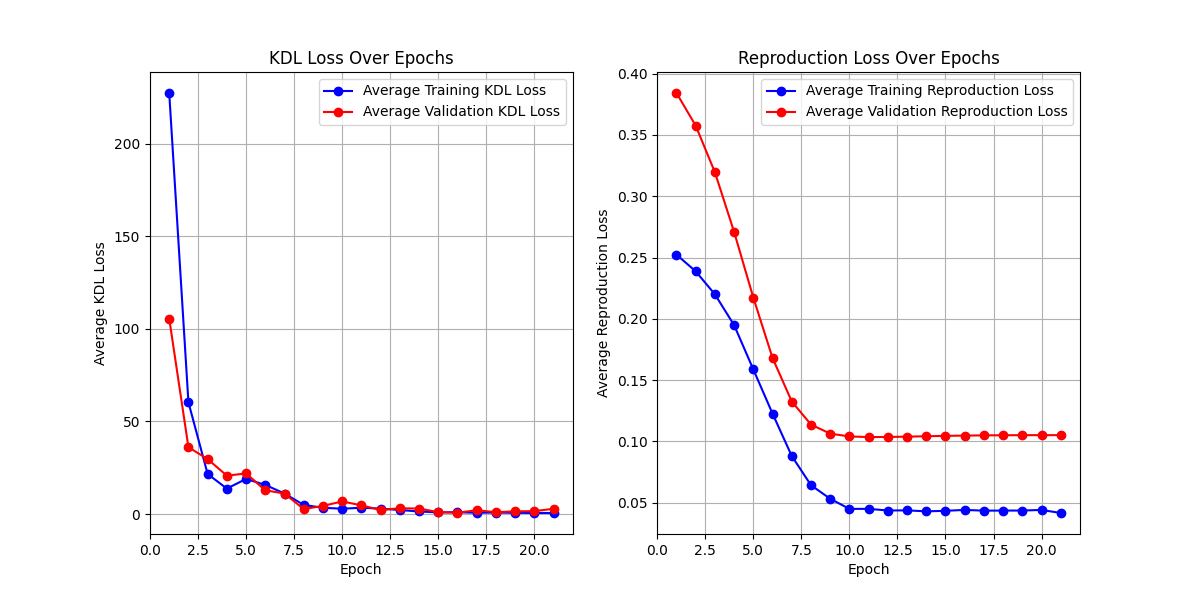
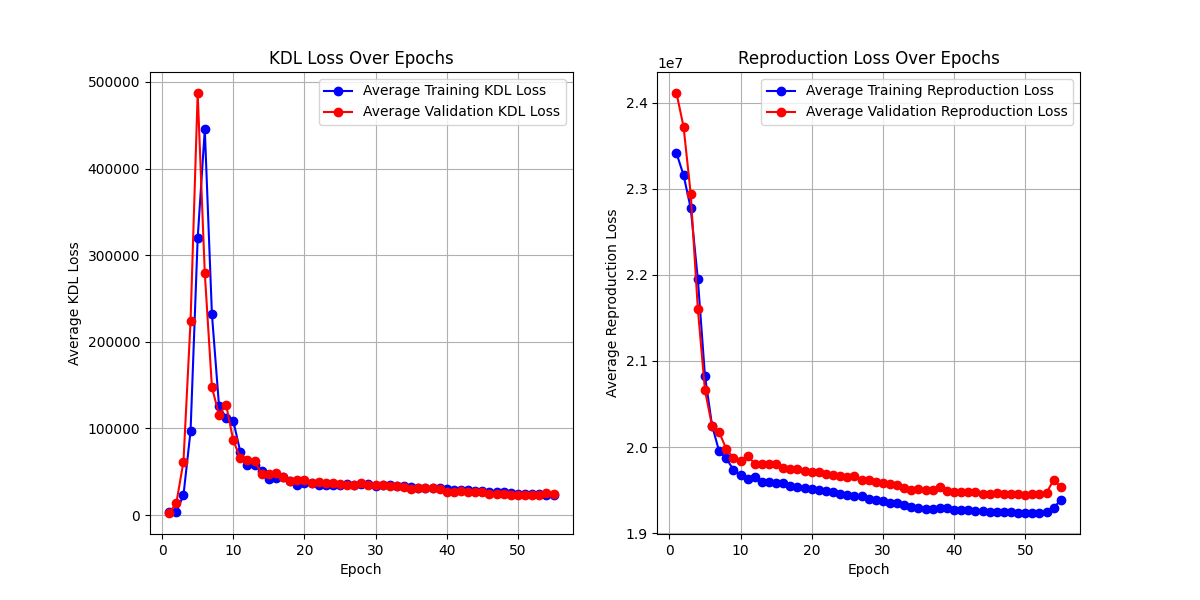
experimented with different scaling approaches

diff --git a/VAE/vae_experiments/train.py b/VAE/vae_experiments/train.py
@@ -22,14 +22,19 @@ def custom_collate(batch):
     return torch.cat(batch, dim=0)
 
 def loss_function(x, x_hat, mean, log_var):
-    reproduction_loss = reproduction_loss = F.l1_loss(x_hat, x)  # MAE
+    # reproduction_loss = reproduction_loss = F.l1_loss(x_hat, x, reduction='sum')  # MAE
+    # reproduction_loss = reproduction_loss = F.mse_loss(x_hat, x)  # MSE
+    reproduction_loss = nn.functional.binary_cross_entropy(x_hat, x, reduction='sum')
     KLD = - 0.5 * torch.sum(1+ log_var - mean.pow(2) - log_var.exp())
     return reproduction_loss, KLD
 
 def no_reduction_loss_function(x, x_hat, mean, log_var):
     # Calculate Mean Absolute Error (MAE) for each item in the batch
     # Using reduction='none' to keep the loss for each element in the batch
-    reproduction_loss = F.l1_loss(x_hat, x, reduction='none').mean(dim=1)
+    # reproduction_loss = F.l1_loss(x_hat, x, reduction='none').sum(dim=1)
+    # reproduction_loss = F.mse_loss(x_hat, x, reduction='none').sum(dim=1)
+    reproduction_loss = nn.functional.binary_cross_entropy(x_hat, x, reduction='none').sum(dim=1)
+
 
     # Calculate KLD for each item in the batch
     # Sum over the right dimension but do not reduce across the batch
@@ -55,7 +60,7 @@ def train_epoch(model, optimizer, device, train_loader, epoch, epochs):
         reproduction_loss, kdl_loss = loss_function(x, x_hat, mean, log_var)
         
         overall_kdl_loss += kdl_loss.item()
-        overall_reproduction_loss += reproduction_loss.item()
+        overall_reproduction_loss += reproduction_loss.item() 
 
         combined_loss = reproduction_loss + kdl_loss
         
@@ -115,7 +120,9 @@ def train(model, optimizer, epochs, device, train_loader, val_loader, early_stop
         plot_losses(training_losses, validation_losses, experiment_name, docs_dir)
 
         # early stopping
-        if early_stopper.early_stop(val_losses["average_val_kdl_loss"], model):
+        # stop_decision = early_stopper.early_stop(val_losses["average_val_kdl_loss"], model)
+        stop_decision = early_stopper.early_stop(val_losses["average_val_reproduction_loss"] + val_losses["average_val_kdl_loss"], model)
+        if stop_decision:
             model = early_stopper.min_model
             print("early stop")
             break
@@ -130,6 +137,7 @@ def plot_good_and_bad_samples(val_loader, model, device, num_samples_to_visualiz
             x = batch.to(device)
             x_hat, mean, log_var = model(x)
             reconstruction_loss, kdl_loss = no_reduction_loss_function(x, x_hat, mean, log_var)
+            # combined_loss = reconstruction_loss + kdl_loss
             combined_loss = reconstruction_loss + kdl_loss
 
             # Store combined loss and corresponding indices
@@ -140,7 +148,7 @@ def plot_good_and_bad_samples(val_loader, model, device, num_samples_to_visualiz
     sorted_samples = sorted(sample_losses, key=lambda x: x[0])
 
     # Select top and bottom samples based on combined loss
-    selected_samples = sorted_samples[:num_samples_to_visualize] + sorted_samples[-num_samples_to_visualize:]
+    selected_samples = sorted_samples[:num_samples_to_visualize +10] + sorted_samples[-num_samples_to_visualize:]
 
     for comb_loss, kdl_loss, rec_loss, _, x, x_hat in selected_samples:
         # Flatten the tensors to 1D for visualization
@@ -173,30 +181,31 @@ train_loader = DataLoader(dataset=train_dataset, batch_size=batch_size, shuffle=
 val_loader = DataLoader(dataset=val_dataset, batch_size=batch_size, shuffle=True, collate_fn=custom_collate)
 print("Total number of scan files considered: ", len(bio_dataset))
 
-# train the VAE
+# # train the VAE
 vae = VAE(input_dim=442, hidden_dim=221, latent_dim=110, device=device).to(device)
 optimizer = Adam(vae.parameters(), lr=1e-3)
 stopper = EarlyStopper(patience=5, min_delta=0)
-vae = train(
-    model=vae,
-    optimizer=optimizer,
-    epochs=100,
-    device=device,
-    train_loader=train_loader,
-    val_loader=val_loader,
-    early_stopper=stopper,
-    experiment_name=experiment_name,
-    docs_dir=os.path.join(experiment_dir, "docs")
-)
-model_dir = os.path.join(experiment_dir, "models")
-if not os.path.exists(model_dir):
-    os.makedirs(model_dir)
-torch.save(vae.state_dict(), f'{model_dir}/{experiment_name}.pth')
+# vae = train(
+#     model=vae,
+#     optimizer=optimizer,
+#     epochs=100,
+#     device=device,
+#     train_loader=train_loader,
+#     val_loader=val_loader,
+#     early_stopper=stopper,
+#     experiment_name=experiment_name,
+#     docs_dir=os.path.join(experiment_dir, "docs")
+# )
 
-# # load the VAE
-# vae = VAE(input_dim=442, hidden_dim=221, latent_dim=110, device=device).to(device)
 # model_dir = os.path.join(experiment_dir, "models")
-# vae.load_state_dict(torch.load(f'{model_dir}/{experiment_name}.pth', map_location=device))
+# if not os.path.exists(model_dir):
+#     os.makedirs(model_dir)
+# torch.save(vae.state_dict(), f'{model_dir}/{experiment_name}.pth')
+
+# load the VAE
+vae = VAE(input_dim=442, hidden_dim=221, latent_dim=110, device=device).to(device)
+model_dir = os.path.join(experiment_dir, "models")
+vae.load_state_dict(torch.load(f'{model_dir}/{experiment_name}.pth', map_location=device))
 
 # plot examples for validation
 plot_dir = os.path.join(experiment_dir, "docs", "figures")

diff --git a/VAE/vae_experiments/dataset.py b/VAE/vae_experiments/dataset.py
@@ -88,20 +88,28 @@ class BioData(Dataset):
         # load the file
         file_path = self.samples[idx]
         file_data = np.load(file_path)
-        self.data = []
 
         try:
             # Reshape the data such that each pixel becomes a separate sample
             num_samples = file_data.shape[0] * file_data.shape[1]
             file_data = file_data.reshape(num_samples, -1)
-            self.data.append(file_data)
 
-            # Scale each row by using the value of the min and max indices
-            epsilon = 1e-10  # A small constant to prevent division by zero
-            min_values = self.data[0][:, self.min_index]
-            max_values = self.data[0][:, self.max_index]
-            self.data = np.vstack(self.data)
-            self.data = (self.data - min_values[:, np.newaxis]) / (max_values[:, np.newaxis] - min_values[:, np.newaxis] + epsilon)
+            # # Scale each row by using the value of the min and max indices
+            # min_values = file_data[:, self.min_index]
+            # max_values = file_data[:, self.max_index]
+            # min_values = min_values[:, np.newaxis]
+            # max_values = max_values[:, np.newaxis]
+            
+            # min_values should be the minimum value per row
+            min_values = np.min(file_data, axis=1)
+            min_values = min_values[:, np.newaxis]
+            # max_values should be the maximum value per row
+            max_values = np.max(file_data, axis=1)
+            max_values = max_values[:, np.newaxis]
+
+            file_data = np.vstack(file_data)
+            file_data = (file_data - min_values) / (max_values - min_values)
+            # file_data = (file_data - min_values) / (max_values - min_values + 1e-10) # add small value to avoid division by zero
 
         except IndexError:
             print(f"Unexpected shape in file {file_path}: {file_data.shape}")

diff --git a/VAE/vae_experiments/utils.py b/VAE/vae_experiments/utils.py
@@ -64,13 +64,19 @@ def visualize_comparison(original_tensor, reconstructed_tensor, experiment_name,
     original_data = original_tensor.cpu().numpy()
     reconstructed_data = reconstructed_tensor.cpu().numpy()
 
+    # # Rescale both tensors back to their original scale
+    # min_val = -0.40619122982025146
+    # max_val = 8.0
+    # #original_tensor = original_tensor * (max_val - min_val) + min_val
+    # reconstructed_tensor = reconstructed_tensor * (max_val - min_val) + min_val
+
     # Plotting
     plt.figure(figsize=(10, 4))
     plt.plot(original_data, label='Original Data', color='blue')
     plt.plot(reconstructed_data, label='Reconstructed Data', color='red')
     plt.xlabel('Channel')
     plt.ylabel('Value')
-    plt.title(f'{experiment_name} - Combined Loss: {combined_loss:.4f}, KDL Loss: {kdl_loss:.4f}, Reconstruction Loss (MEA): {reconstruction_loss:.4f}')
+    plt.title(f'{experiment_name} - Combined Loss: {combined_loss:.4f}, KDL Loss: {kdl_loss:.4f}, Reconstruction Loss: {reconstruction_loss:.4f}')
     plt.legend()
     plt.grid(True)
 

diff --git a/VAE/vae_experiments/README.md b/VAE/vae_experiments/README.md
@@ -22,3 +22,8 @@
     - [ ] Use the same 3 variations of the VAE
   - [ ] Compare results
   - [ ] Read into VAE and beta-VAE theory to advance the architecture
+
+## notes
+- Training with fixed indices for normalization is not working:
+  - I cant use cross entropy loss with fixed indices for normalization since the input and target have to be between 0 and 1
+  - When I use MSE or MAE loss, the loss is always nan
